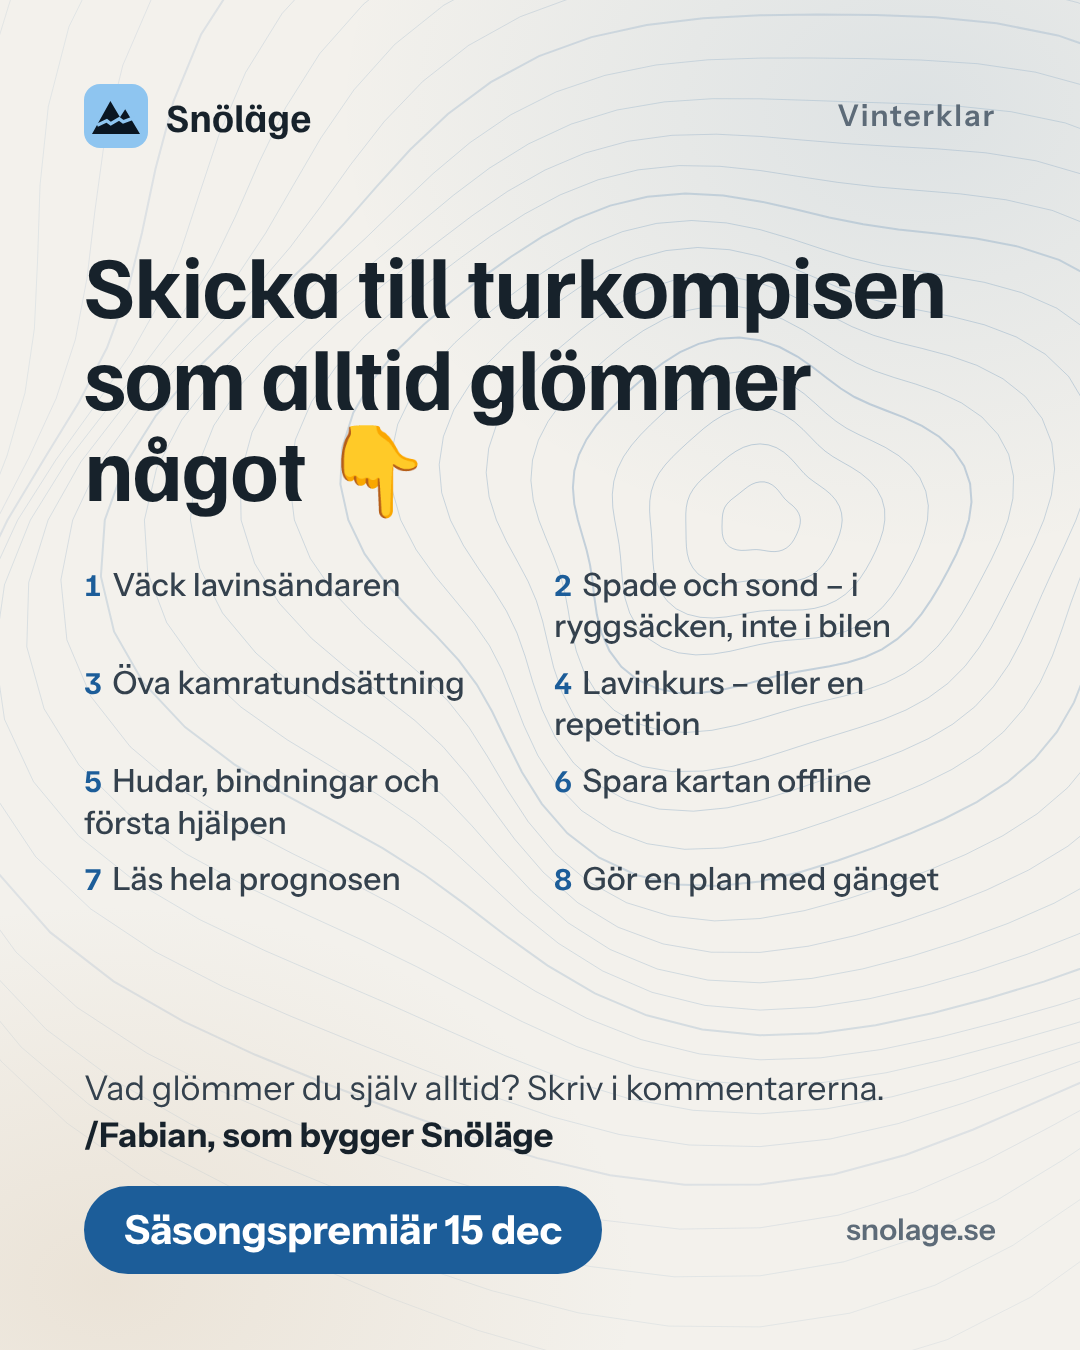
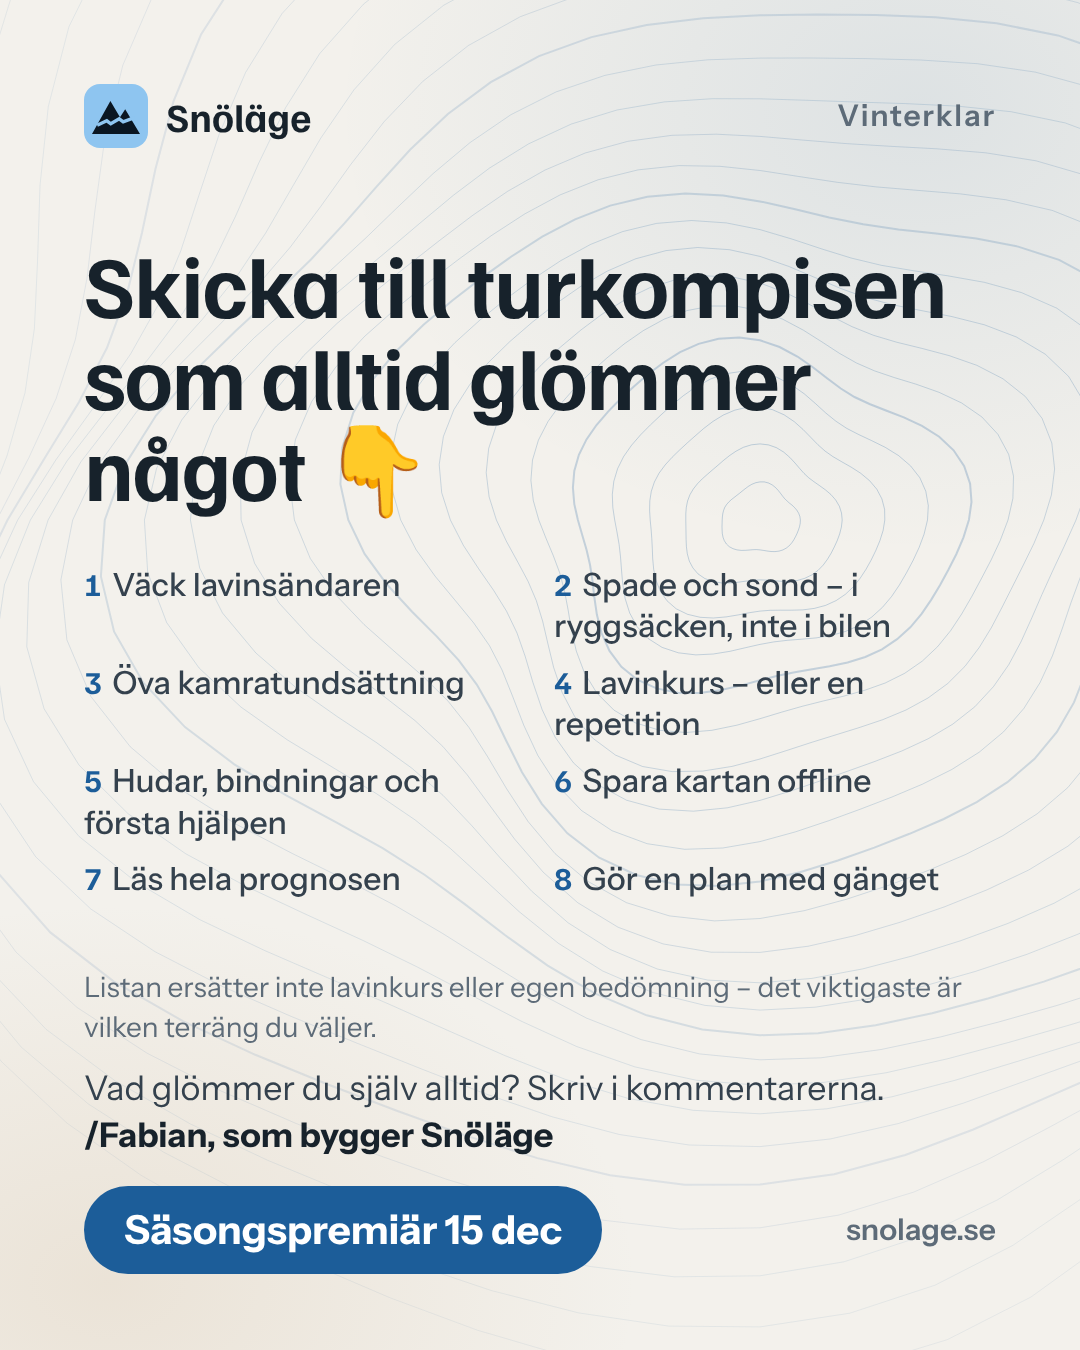
Plan: sharper message (free, explained, works offline; never name others), app timing; carousel disclaimer [skip ci]
Claude-Session: https://claude.ai/code/session_016gagaetJdXP8GZ53aH1qZN

Changed region(s): [[0.0917, 0.7156, 0.6722, 0.7778], [0.7028, 0.7156, 0.8861, 0.7467]]

diff --git a/Svenska laviner/MARKNADSPLAN-INSTAGRAM-FACEBOOK.md b/Svenska laviner/MARKNADSPLAN-INSTAGRAM-FACEBOOK.md
@@ -40,6 +40,36 @@ onsdag. Ungefär 3 timmar i veckan.
 **Under säsongen:** Snöläget inför helgen varje torsdag kväll, och en fast
 rytm måndag till söndag (avsnitt 7). Ungefär 3–4 timmar i veckan.
 
+## Budskapet (skärpt 16 november)
+
+**Lyft det som är gratis och unikt för Snöläge**, i varje inlägg där det passar:
+
+- **Allt är gratis** – även offlinekartorna. Inga betalväggar, ingen reklam.
+- **Den svenska prognosen förklarad på svenska:** "Vad betyder det för mig?"
+  under farograden och "Så hanterar du det" för varje lavinproblem.
+- **Hitta åk:** välj lutning och väderstreck – terrängen som matchar färgas.
+- **Gemenskapen:** observationer, turer, turdag med kompisar, "Ni frågade –
+  nu finns det".
+- **Fungerar utan täckning:** sparad karta, observationer som skickas när
+  nätet kommer tillbaka.
+
+**Nämn aldrig andra appar och jämför inte öppet.** Prata om Snöläge, inte
+om någon annan. "Gratis, även offlinekartor" räcker – den som har betalat
+för det någon annanstans förstår ändå.
+
+## Tidsplan för apparna (16 november)
+
+| När | Vad | Vem |
+| --- | --- | --- |
+| Nu | **Version 1.0 ute i butikerna**, så att appen finns att hitta. Ingen stor satsning än – profilen, höjdpunkterna och de vanliga inläggen räcker. | Fabian |
+| **Från 23 nov** | **Ansök om produktion igen i Google Play** (Android), så att båda apparna helst är ute före premiären. | Fabian |
+| Före premiären | **Notiser i iPhone-appen** (Firebase + Apples nyckel för notiser). Butikstexten lovar "Notis när farograden ändras i dina områden" – det måste fungera innan många laddar ner, annars blir det dåliga recensioner. | App-sessionen guidar Fabian |
+| Före premiären | **Nytt iPhone-bygge** med de senaste funktionerna, via TestFlight och ny granskning (oftast 1–3 dygn). | App-sessionen |
+| Samtidigt | **Uppdatera butikstexterna** med de nya funktionerna (Hitta åk, Norge, gratis offlinekartor). | App-sessionen |
+| **Mitten av december** | **Den stora satsningen**, när prognoserna börjar. Då har folk ett skäl att öppna appen varje dag, och "Dela som bild" fungerar med riktiga farograder. | Alla |
+
+Tills iPhone-notiserna fungerar: lova inte notiser i inläggen.
+
 ---
 
 ## 1. Läget i dag
